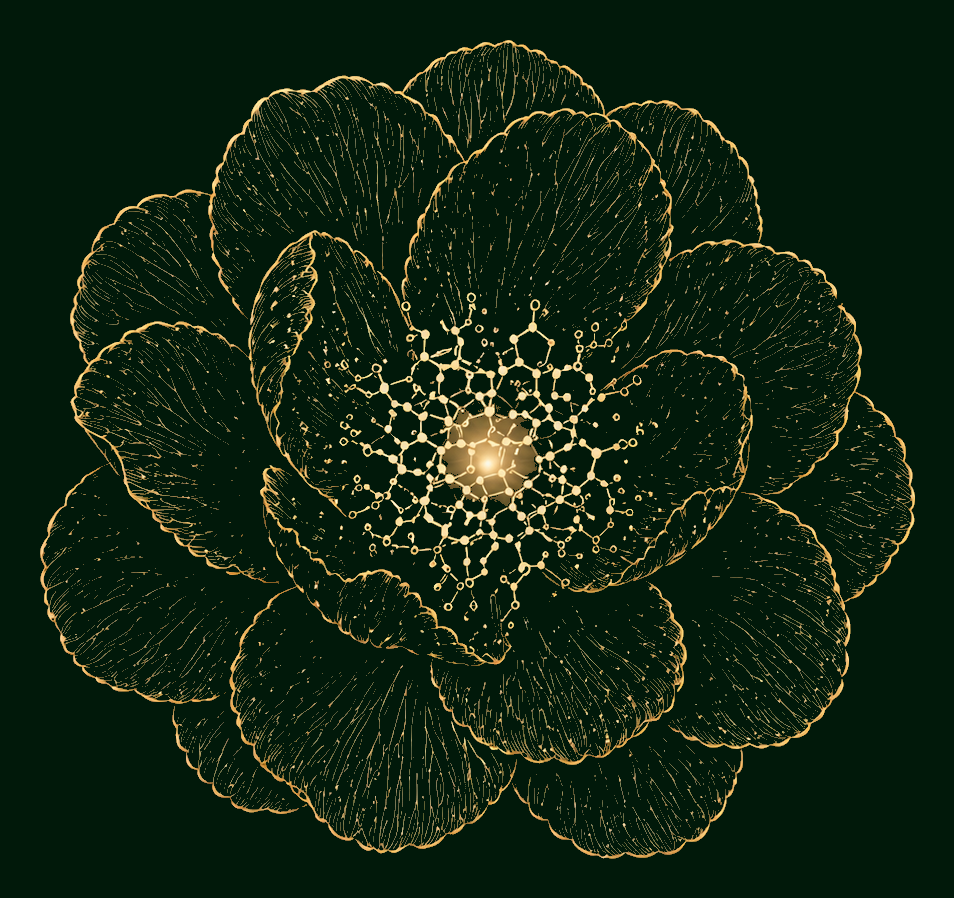
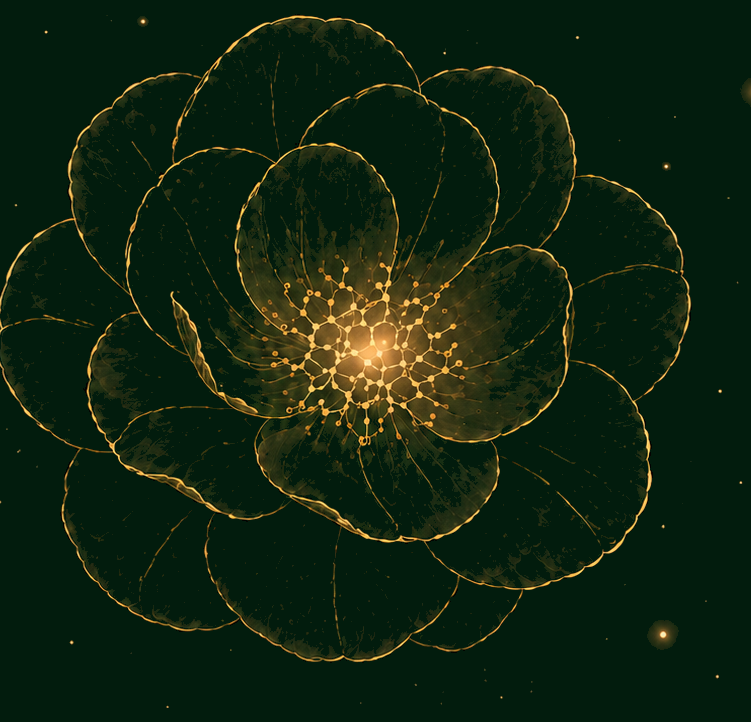
update: 替换为竖版牡丹图，智能裁切到花朵主体 751x722
- 新图原 1086x1448，密度检测裁切到花朵主体 751x722
- 温和阈值清理(色距<25)，保留花瓣细密纹理
- 背景色 #021C0D 同步 CSS
- ?v=peony4 强刷缓存
- 配合 max-width 1080px+，花朵会撑满更大视觉面积

Changed region(s): [[0.0, 0.0, 0.98, 0.9751], [0.8575, 0.8532, 0.9188, 0.9141], [0.98, 0.0914, 1.0, 0.1524]]

diff --git a/flh/index.html b/flh/index.html
@@ -110,7 +110,7 @@
     .cover {
       min-height: 100vh; display: flex; flex-direction: column;
       justify-content: center; padding: 80px 40px 120px;
-      background: #01190A;
+      background: #021C0D;
       position: relative; overflow: hidden;
     }
     .cover::before {
@@ -1559,7 +1559,7 @@
 <section id="cover" class="cover">
   <div class="cover-inner">
     <div class="cover-hero-art">
-      <img src="/imgs/flh-cover-hero.png?v=peony3" alt="植养萃 × 樊文花 — 外护内养意象图" loading="eager" decoding="async">
+      <img src="/imgs/flh-cover-hero.png?v=peony4" alt="植养萃 × 樊文花 — 外护内养意象图" loading="eager" decoding="async">
     </div>
     <div class="cover-text">
       <h1 class="cover-title">外护樊文花<br><strong>内用植养萃</strong></h1>
